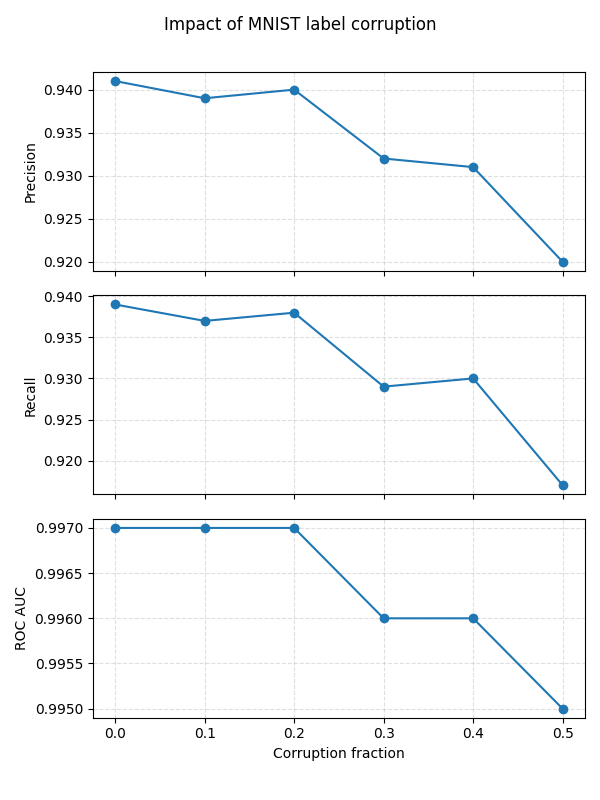
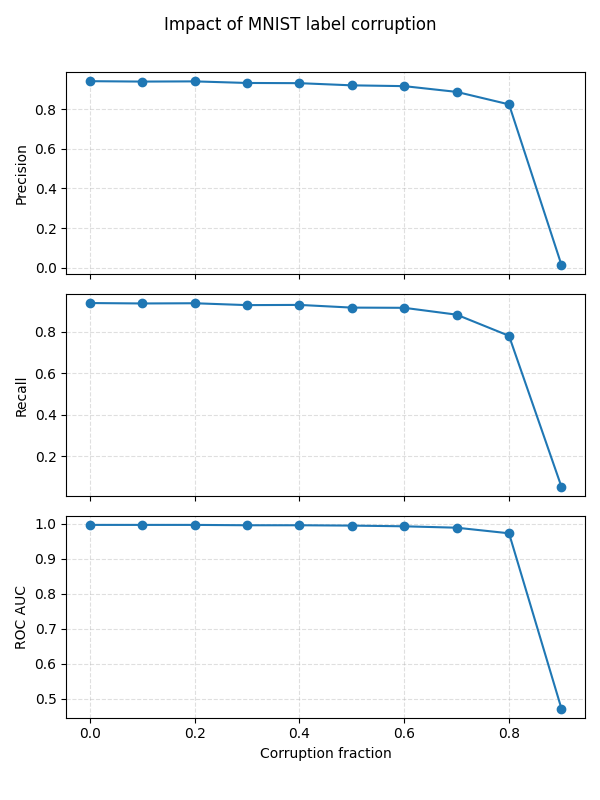
clarified metrics

diff --git a/sweep_corruption.py b/sweep_corruption.py
@@ -24,12 +24,12 @@ def parse_args() -> argparse.Namespace:
         type=float,
         nargs="+",
         default=None,
-        help="Explicit list of corruption fractions (each between 0 and 0.5).",
+        help="Explicit list of corruption fractions (each between 0 and 0.9).",
     )
     parser.add_argument(
         "--max-frac",
         type=float,
-        default=0.5,
+        default=0.9,
         help="Largest corruption fraction to try when --fractions is not provided.",
     )
     parser.add_argument(
@@ -55,8 +55,8 @@ def parse_args() -> argparse.Namespace:
 def validate_fractions(fractions: Iterable[float]) -> List[float]:
     result = []
     for frac in fractions:
-        if not (0.0 <= frac <= 0.5):
-            raise ValueError(f"Fraction {frac} is outside the supported [0, 0.5] range.")
+        if not (0.0 <= frac <= 0.9):
+            raise ValueError(f"Fraction {frac} is outside the supported [0, 0.9] range.")
         result.append(round(frac, 4))
     return result
 

diff --git a/main_corrupted.py b/main_corrupted.py
@@ -35,8 +35,8 @@ def corrupt_training_set(
 ) -> datasets.MNIST:
     """Relabel a fraction of each class with images pulled from other classes."""
 
-    if fraction < 0 or fraction > 0.5:
-        raise ValueError("fraction must be in [0, 0.5] for a meaningful corruption sweep.")
+    if fraction < 0 or fraction > 0.9:
+        raise ValueError("fraction must be in [0, 0.9] for a meaningful corruption sweep.")
     if fraction == 0:
         return dataset
 
